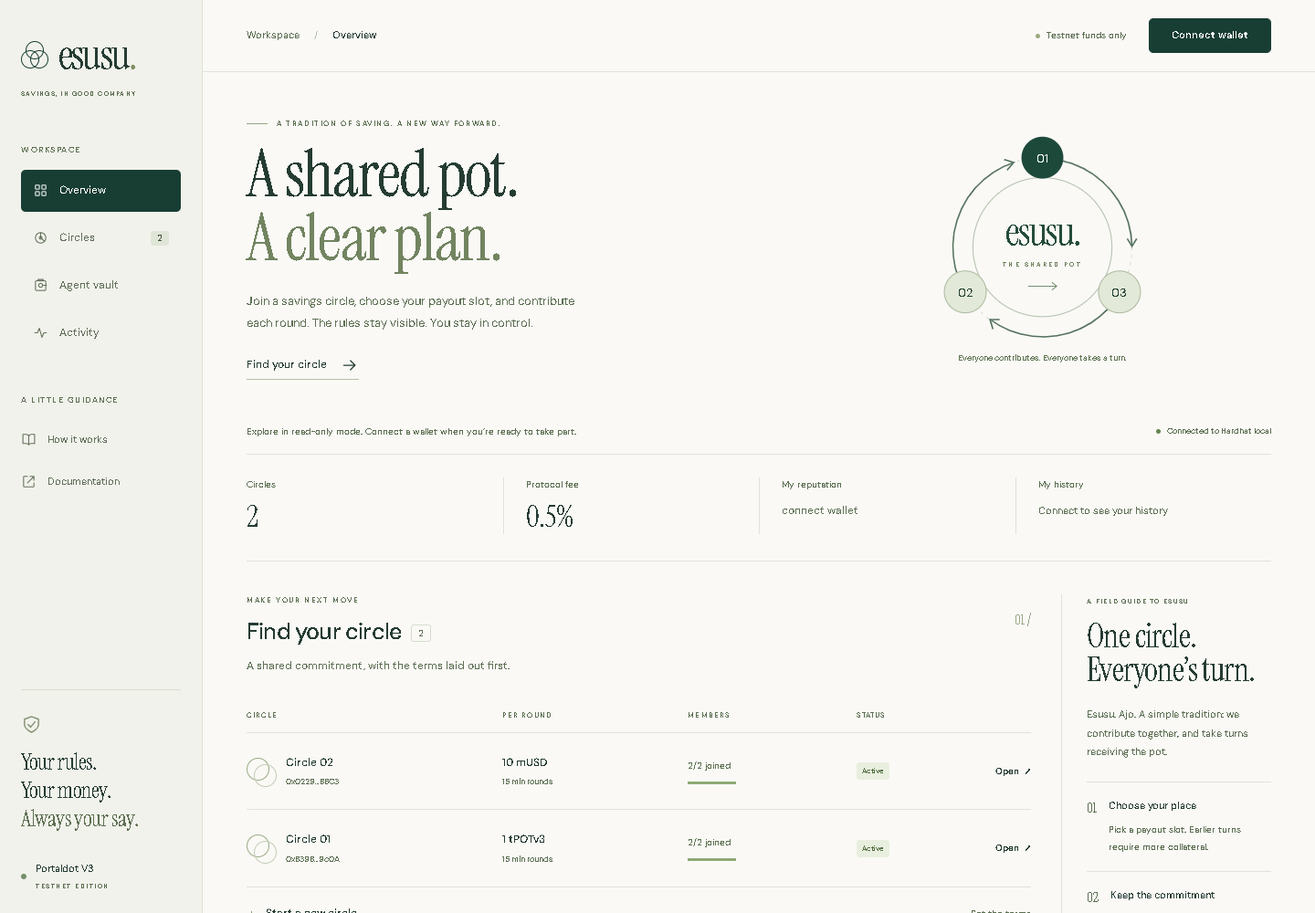
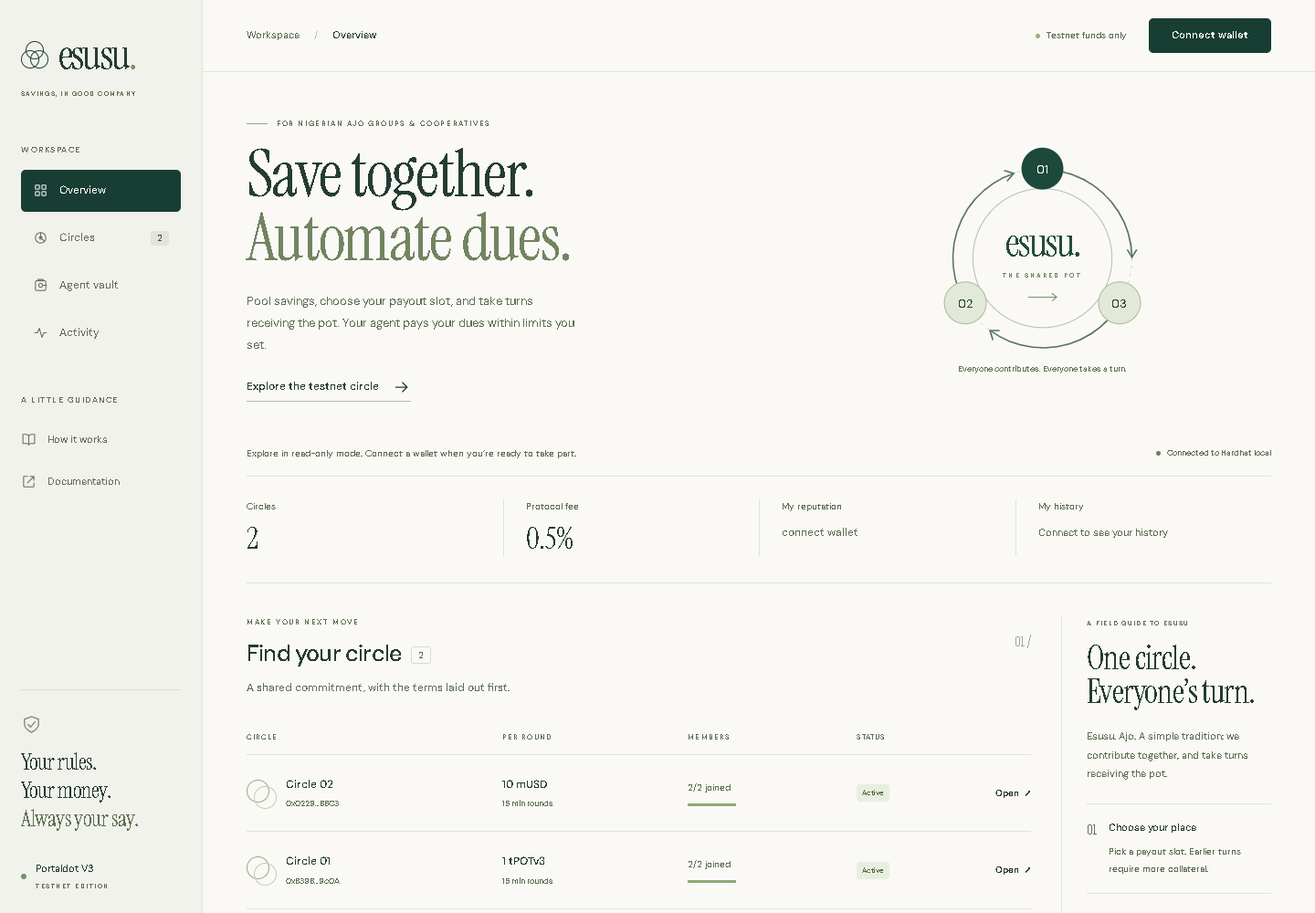
Clarify Esusu audience and renew judge policy for 30 days

diff --git a/web/index.html b/web/index.html
@@ -4,8 +4,8 @@
 <meta charset="utf-8">
 <meta name="viewport" content="width=device-width, initial-scale=1">
 <meta name="theme-color" content="#183e34">
-<meta name="description" content="Save together with Esusu. Explore rotating savings circles on Portaldot, choose your payout slot, and manage your agent's spending limits.">
-<title>Esusu — Savings, in good company</title>
+<meta name="description" content="For Nigerian ajo groups and cooperatives: save together, take turns receiving the pot, and let an agent pay your dues within limits you control.">
+<title>Esusu — Ajo savings with automated dues</title>
 <link rel="icon" href="favicon.svg" type="image/svg+xml">
 <link rel="preload" href="fonts/dm-sans-latin.woff2" as="font" type="font/woff2" crossorigin>
 <link rel="preload" href="fonts/instrument-serif-latin.woff2" as="font" type="font/woff2" crossorigin>
@@ -42,7 +42,7 @@
 <div class="workspace">
 <header class="topbar"><div class="breadcrumb"><span>Workspace</span><span class="breadcrumb-slash">/</span><strong>Overview</strong></div><div class="topbar-actions"><span class="testnet-label">Testnet funds only</span><button id="btnConnect" class="primary wallet-button">Connect wallet</button></div></header>
 <main id="main" class="content">
-<section class="hero" id="overview" aria-labelledby="heroTitle"><div class="hero-copy"><p class="eyebrow"><span class="tiny-line"></span>A TRADITION OF SAVING. A NEW WAY FORWARD.</p><h1 id="heroTitle">A shared pot.<br><span>A clear plan.</span></h1><p class="hero-lead">Join a savings circle, choose your payout slot, and contribute each round. The rules stay visible. You stay in control.</p><a class="text-link hero-link" href="#discover">Find your circle <svg><use href="#i-arrow"/></svg></a></div>
+<section class="hero" id="overview" aria-labelledby="heroTitle"><div class="hero-copy"><p class="eyebrow"><span class="tiny-line"></span>FOR NIGERIAN AJO GROUPS &amp; COOPERATIVES</p><h1 id="heroTitle">Save together.<br><span>Automate dues.</span></h1><p class="hero-lead">Pool savings, choose your payout slot, and take turns receiving the pot. Your agent pays your dues within limits you set.</p><a class="text-link hero-link" href="#discover">Explore the testnet circle <svg><use href="#i-arrow"/></svg></a></div>
 <div class="circle-story"><svg class="circle-drawing" viewBox="0 0 350 270" role="img" aria-labelledby="cycleTitle cycleDesc"><title id="cycleTitle">Everyone contributes. Everyone takes a turn.</title><desc id="cycleDesc">An illustration of three members contributing to a shared savings pot in turn.</desc>
 <circle cx="175" cy="133" r="94" fill="none" stroke="#d5dbd0" stroke-width="1" stroke-dasharray="3 5"/><circle cx="175" cy="133" r="73" fill="none" stroke="#b4c0ad" stroke-width="1"/>
 <path d="M194 42a94 94 0 0 1 75 90m-5-8 5 8 5-8M252 188a94 94 0 0 1-132 21m10 0-10 0 3 10M87 166a94 94 0 0 1 58-122m-7 8 7-8-10-3" fill="none" stroke="#54705c" stroke-width="1.5"/>
@@ -83,7 +83,7 @@
 <div id="vaultView" style="display:none"><div class="kv detail-stats" id="vaultKv"></div>
 <div class="funding-grid"><div class="row"><div class="grow"><label for="fundAmt">Add funds</label><input id="fundAmt" value="50" inputmode="decimal"></div><button id="btnFund">Fund</button></div><div class="row"><div class="grow"><label for="wdAmt">Withdraw to your wallet</label><input id="wdAmt" value="10" inputmode="decimal"></div><button id="btnVaultWd">Withdraw</button></div></div>
 <div class="subsection-heading"><h3>Spending policy</h3><span class="small">You set every limit.</span></div>
-<div class="grid"><div class="field-wide"><label for="pAgent">Agent wallet address</label><input id="pAgent" placeholder="0x…" spellcheck="false" autocomplete="off"></div><div><label for="pPerTx">Maximum per payment</label><input id="pPerTx" value="10" inputmode="decimal"></div><div><label for="pPeriodCap">Maximum per period</label><input id="pPeriodCap" value="30" inputmode="decimal"></div><div><label for="pHours">Period <span class="optional">hours</span></label><input id="pHours" value="24" inputmode="decimal"></div><div><label for="pDays">Expires in <span class="optional">days</span></label><input id="pDays" value="14" inputmode="decimal"></div></div>
+<div class="grid"><div class="field-wide"><label for="pAgent">Agent wallet address</label><input id="pAgent" placeholder="0x…" spellcheck="false" autocomplete="off"></div><div><label for="pPerTx">Maximum per payment</label><input id="pPerTx" value="10" inputmode="decimal"></div><div><label for="pPeriodCap">Maximum per period</label><input id="pPeriodCap" value="30" inputmode="decimal"></div><div><label for="pHours">Period <span class="optional">hours</span></label><input id="pHours" value="24" inputmode="decimal"></div><div><label for="pDays">Expires in <span class="optional">days</span></label><input id="pDays" value="30" inputmode="decimal"></div></div>
 <div class="row"><button id="btnPolicy" class="primary">Save policy</button><button id="btnAllow">Allow this circle</button><button id="btnDisallow">Remove this circle</button></div>
 <div class="pause-controls"><div><strong>You can always press pause.</strong><p>Stop agent payments without moving your funds.</p></div><div class="row"><button id="btnPause" class="danger">Pause agent</button><button id="btnUnpause">Resume agent</button></div></div>
 <div class="subsection-heading"><h3>Approved service providers</h3></div><p class="sub">Allow specific APIs or data services. Provider limits also count towards your agent’s total allowance.</p>

diff --git a/scripts/extend-policy.js b/scripts/extend-policy.js
@@ -20,7 +20,9 @@ const ABI = [
   const file = "deployments/portaldot.json";
   const dep = JSON.parse(fs.readFileSync(file, "utf8"));
   const days = Number(process.env.DAYS || 30);
+  if (!Number.isSafeInteger(days) || days <= 0) throw new Error("DAYS must be a positive whole number");
   const provider = new ethers.JsonRpcProvider(process.env.PORTALDOT_EVM_RPC || NETWORK.evmRpc, undefined, { staticNetwork: true });
+  if (Number((await provider.getNetwork()).chainId) !== dep.chainId) throw new Error("RPC chain does not match the deployment");
   const wallet = new ethers.Wallet(process.env.PRIVATE_KEY, provider);
   const vault = new ethers.Contract(dep.vault, ABI, wallet);
 
@@ -33,9 +35,18 @@ const ABI = [
   const tx = await vault.setPolicy(agent, perTx, period, len, expiry, process.env.GAS_LIMIT ? { gasLimit: BigInt(process.env.GAS_LIMIT) } : {});
   console.log("tx", tx.hash);
   const rc = await tx.wait();
+  if (rc.status !== 1) throw new Error(`Policy renewal failed: ${tx.hash}`);
   console.log("status", rc.status === 1 ? "OK" : "FAILED", "block", rc.blockNumber);
-  console.log("on-chain expiry now", new Date(Number(await vault.expiry()) * 1000).toISOString());
+  const actualExpiry = Number(await vault.expiry());
+  if (actualExpiry !== expiry) throw new Error(`On-chain expiry differs from the requested expiry; inspect ${tx.hash}`);
+  console.log("on-chain expiry now", new Date(actualExpiry * 1000).toISOString());
 
   dep.expiry = expiry; dep.tx = { ...dep.tx, extendPolicy: tx.hash };
+  dep.receipts = { ...dep.receipts, extendPolicy: {
+    blockNumber: rc.blockNumber, gasUsed: rc.gasUsed.toString(), gasPrice: rc.gasPrice.toString(),
+  } };
+  dep.policyRenewal = { verifiedAt: new Date().toISOString(), previousExpiry: Number(old), expiry,
+    days, agent, perTxCap: perTx.toString(), periodCap: period.toString(), periodLength: len.toString(),
+    transaction: tx.hash, blockNumber: rc.blockNumber };
   fs.writeFileSync(file, JSON.stringify(dep, null, 2) + "\n");
 })().catch((e) => { console.error(e.shortMessage || e.message); process.exit(1); });

diff --git a/scripts/demo.js b/scripts/demo.js
@@ -36,7 +36,7 @@ async function main() {
   h("Owner funds an agent vault (mUSD) and sets limits: 10/payment, 20/day, this circle only");
   const vault = await (await ethers.getContractFactory("AgentAllowance")).deploy(owner.address, await tok.getAddress());
   const vaddr = await vault.getAddress();
-  await vault.connect(owner).setPolicy(agent.address, dues, dues * 2n, 86400, (await time.latest()) + 14 * 86400);
+  await vault.connect(owner).setPolicy(agent.address, dues, dues * 2n, 86400, (await time.latest()) + 30 * 86400);
   await vault.connect(owner).setCircuit(addr, true);
   await tok.connect(owner).transfer(vaddr, dues * 5n);
 

diff --git a/scripts/deploy.js b/scripts/deploy.js
@@ -106,7 +106,7 @@ async function main() {
   }
   save();
   const vault = await deploy("AgentAllowance", "vault", "vaultDeploy", [owner.address, tokenAddr]);
-  if (!out.expiry) { out.expiry = (await ethers.provider.getBlock("latest")).timestamp + 14 * 86400; save(); }
+  if (!out.expiry) { out.expiry = (await ethers.provider.getBlock("latest")).timestamp + 30 * 86400; save(); }
   await send("setPolicy", () => vault.setPolicy(agentAddr, dues, dues * 3n, 86400, out.expiry));
   await send("allowCircle", () => vault.setCircuit(out.circle, true));
   await send("allowServicePayee", () => vault.setPayee(servicePayee, true, dues * 3n));

diff --git a/docs/JUDGES.md b/docs/JUDGES.md
@@ -1,11 +1,15 @@
 # Judge guide: verify everything in 5 minutes
 
 ## The 10-second version
-Esusu (ajo) circles run on trust and break when someone takes the pot and vanishes. This project puts the circle on-chain with **collateral priced by payout slot** (a paid-out member can never leave in debt), a **portable reputation score**, and an **AI agent that pays your dues from a vault you cap** and cannot withdraw, pay itself, or pay anyone you did not allowlist.
+**For Nigerian ajo groups and cooperatives: save together, take turns receiving the pot, and let an agent pay your dues within limits you control.**
 
-## Path A: 60 seconds, nothing to install but Node 22, no tokens, no wallet
+Members choose a payout slot and lock collateral; earlier payouts require more collateral to cover remaining dues. The agent automates contributions from a funded vault with owner-set limits. This addresses missed payments and members who stop contributing after their payout. It is a testnet prototype, with no recruited pilot users yet.
 
-The repository is currently private, so clone access requires permission. Public hosting is not yet configured. Once you have repository access:
+**Start here:** [open the live app](https://onchainesusuagent.vercel.app). No wallet is needed to inspect the circle, payout slots or risk grade. Use Path A below for a complete hands-on agent demo with local test accounts.
+
+## Path A: local hands-on demo (Node 22)
+
+The live app is hosted on Vercel. For the local demo, clone the repository (private repository access is required if you cannot open it):
 ```bash
 git clone https://github.com/Agozie180/On-chain-Esusu-agent && cd On-chain-Esusu-agent
 npm install
@@ -20,31 +24,33 @@ Open http://127.0.0.1:5173. You will see (without connecting any wallet):
 To act, the demo prints a public dev key and the MetaMask network values. Then:
 1. Use the complete agent command printed by the demo, with `CIRCUITS` set to the local `liveCircle` in `.local-demo.json` to override any testnet `.env` value: the agent **pays your dues from the vault**. On PowerShell, set the listed values with `$env:NAME='value'` before `npm run agent`. Stop the loop with Ctrl+C.
 2. `npm run demo:buy`: the agent **pays 1 mUSD from the vault to an API over HTTP 402** and gets a risk report.
-3. In the dapp press **Kill switch**, rerun step 1: the agent alerts instead of paying.
+3. In the dapp press **Pause agent**, rerun step 1: the agent alerts instead of paying.
 
 ## Path B: prove correctness
 ```bash
 npm test          # 110 tests: circles, vault, registry, agent on a local chain, 402 service, 40 random circles
-npm run e2e       # 45 headless browser checks (needs Chromium; CI installs it)
+npm run e2e       # 51 headless browser checks (needs Chromium; CI installs it)
 ```
 Try to break it: the self-audit lists what we found ([AUDIT](AUDIT.md)); the fuzz test asserts solvency and debtor-safety after every transaction and was mutation-checked (it fails when we sabotage the contract).
 
 ## Path C: Portaldot testnet
+**Agent policy renewed November 1:** valid until **December 1, 2026 at 15:37:18 UTC (16:37:18 Lagos)**, with 10 mUSD per-payment and 30 mUSD daily limits. The [deployment record](../deployments/portaldot.json) includes the renewal receipt at block **279265**. To inspect it in the app, open the demo circle, paste vault `0x98017f2275B6758791687e0916cFc4933351482E` into **Vault address**, and press **Load vault**. You do not need a wallet to read its policy. Only its owner can change it; use your own vault or the local demo accounts for hands-on policy tests. Renewal authorizes the agent but does not start its process.
+
[1 lines of base64/hex data omitted]
 
 All 12 deployment/setup transactions are finalized. The [README proof table](../README.md#testnet-deployment-proof) lists all four addresses; [deployments/portaldot.json](../deployments/portaldot.json) contains receipts, code hashes and the recorded state. The explorer entry point is https://node-console.portaldot.dev/.
 
-Run `npm run web` and open http://localhost:5173 to inspect the testnet registry without a wallet. The committed app configuration already selects it. At verification, the circle was Open with **1/3 members**, 10 mUSD dues, 15-minute rounds and **50 test mUSD** in the agent vault. A full cycle and paid API interaction on testnet remain to be demonstrated; use Path A for the complete local rehearsal. Deployment and funding details are in [DEPLOY.md](DEPLOY.md).
+Open [the live app](https://onchainesusuagent.vercel.app), or run `npm run web` and open http://localhost:5173 to inspect the testnet registry without a wallet. The committed app configuration already selects it. At verification, the circle was Open with **1/3 members**, 10 mUSD dues, 15-minute rounds and **50 test mUSD** in the agent vault. A full cycle and paid API interaction on testnet remain to be demonstrated; use Path A for the complete local rehearsal. Deployment and funding details are in [DEPLOY.md](DEPLOY.md).
 
 ## Mapping to the judging criteria
 
 | Criterion | Evidence | How to verify |
 |---|---|---|
-| **Technical feasibility (30%)** | 3 protocol contracts, agent, dapp, paid API; 110 contract/agent/service tests + 45 browser checks; randomized solvency/debtor-safety invariants; 12 finalized testnet deployment/setup transactions | Paths A, B and C; `git log` |
+| **Technical feasibility (30%)** | 3 protocol contracts, agent, dapp, paid API; 110 contract/agent/service tests + 51 browser checks; randomized solvency/debtor-safety invariants; 12 finalized testnet deployment/setup transactions | Paths A, B and C; `git log` |
 | **Innovation (30%)** | Slot-priced collateral that makes early payout safe; portable on-chain reputation with a Sybil guard; an AI agent bounded by owner-set on-chain limits that also **pays for APIs over HTTP 402** | `AgentAllowance.sol`, `agent/service.js`, `npm run demo:buy` |
 | **Ecosystem contribution (20%)** | Verified `0x` → `5…` address helper; tested deployment guide including storage costs; reusable reputation registry; MIT-licensed source (repository currently private) | [`lib/portaldot.js`](../lib/portaldot.js), [DEPLOY.md](DEPLOY.md) |
 | **Business potential (20%)** | Clear user (Nigerian savings circles), 0.5% fee capped at 2%, paid risk API, B2B for cooperatives; costed roadmap; sourced market facts | [BUSINESS.md](BUSINESS.md), [GRANTS.md](GRANTS.md), [ROADMAP.md](../ROADMAP.md) |
 
 ## Where we are honest about gaps
-- The stack is deployed, but the full multi-member testnet cycle, live paid API and Pages hosting are not complete. WASM/ink! is not used; there is no external audit or recruited pilot-user evidence. See the README status table.
+- The app is hosted on Vercel and the contracts are deployed. The full multi-member testnet cycle and live paid API remain unverified. WASM/ink! is not used; there is no external audit or recruited pilot-user evidence. See the README status table.
 - Collateral is a deterrent for **late** slots: an early miss by a late-slot member can shorten later pots (explicit, never insolvent). Reputation gating is the mitigation. Details: [AUDIT.md](AUDIT.md).

diff --git a/README.md b/README.md
@@ -1,6 +1,6 @@
 # On-chain Esusu-agent
 
-**Ajo, but nobody can run away with the pot. And an AI agent pays your dues without ever being able to steal.**
+**For Nigerian ajo groups and cooperatives: save together, take turns receiving the pot, and let an agent pay your dues within limits you control.**
 
 [![CI](https://github.com/Agozie180/On-chain-esusu-agent/actions/workflows/ci.yml/badge.svg)](https://github.com/Agozie180/On-chain-esusu-agent/actions/workflows/ci.yml) ![License](https://img.shields.io/badge/license-MIT-green) ![Network](https://img.shields.io/badge/Portaldot%20V3-EVM-1f6b4a) ![Tests](https://img.shields.io/badge/tests-110%20contract%20%2B%2051%20browser-1f6b4a)
 
@@ -18,10 +18,11 @@ Built for the **Portaldot Hacker House 2026** (Ecosystem DApps). **Status: deplo
 
 ## Understand it in 10 seconds
 
-- **The problem.** Esusu / ajo circles (everyone pays in, one member takes the pot each round) are how many Nigerians save. They run on trust and a WhatsApp group, and they break when someone takes the pot and disappears. Digital versions can't rely on community shame once members are strangers ([e-MFP](https://www.e-mfp.eu/blog/when-fintech-meets-traditional-informal-financial-schemes-recent-trends-innovations-digitising)).
-- **The fix.** The circle's rules live on-chain. Whoever is paid early locks more collateral, so **a paid-out member can never leave the circle in debt**. A missed payment is covered by collateral, the member takes a strike, and a **portable reputation score** (usable by any app) updates.
-- **The twist.** Your **AI agent pays your dues on time** from a vault you fund. It can only pay circles and service providers **you** allowlisted, inside limits **you** set, and it can **never withdraw or pay itself**. You can kill it in one transaction.
-- **Why Portaldot.** Solidity contracts on Portaldot V3's EVM, with a native `5…` / `0x…` address toolkit and a Remix + Hardhat deploy path we built and documented for other teams.
+- **Who:** Nigerian friend-and-family ajo/esusu groups, and cooperatives that organize them.
+- **Problem:** missed contributions and members who stop paying after receiving the pot.
+- **Product:** a shared savings circle on Portaldot with a fixed payout order, collateral for missed dues, and an agent that automates contributions within owner-set limits.
+
+Earlier payout slots require more collateral to cover the member's remaining dues. The agent can only pay approved circles and providers; it cannot withdraw from the vault. Late-slot defaults can still reduce later pots, so this is not a guarantee against every loss. [How the safeguards work](docs/AUDIT.md).
 
 ## Status (read this first)
 
@@ -49,7 +50,9 @@ Network: **Portaldot V3 Testnet**, chain ID **420420777**. Explorer: https://nod
 
[1 lines of base64/hex data omitted]
 
-At the **October 24, 2026, 21:33:46 UTC** verification snapshot (finalized block **180016**), the demo circle was Open with **1 of 3 members** joined, 10 mUSD dues and 15-minute rounds. The vault held **50 test mUSD**, its separate agent was configured, and the circle and service payee were allowlisted. The policy expires **November 7, 2026 at 21:30:06 UTC**. A complete multi-member cycle has been tested locally; the testnet circle starts once the other two slots are filled.
+At the **October 24, 2026, 21:33:46 UTC** verification snapshot (finalized block **180016**), the demo circle was Open with **1 of 3 members** joined, 10 mUSD dues and 15-minute rounds. The vault held **50 test mUSD**, its separate agent was configured, and the circle and service payee were allowlisted. A complete multi-member cycle has been tested locally; the testnet circle starts once the other two slots are filled.
+
[1 lines of base64/hex data omitted]
 
 The 12 receipts account for **2438.7171 tPOTv3** in fees including storage deposits, plus **0.1 tPOTv3** transferred to the agent. The recorded owner balance after setup was **61.0829 tPOTv3**. The earlier funding blocker is resolved; see the [deployment guide](docs/DEPLOY.md) for the measurements and current usage instructions. Mock mUSD has unrestricted minting and no monetary backing.
 

diff --git a/docs/DEPLOY.md b/docs/DEPLOY.md
@@ -6,7 +6,9 @@ Do these on **your own computer**. Everything here is testnet only. Never put a 
 
 The stack is already deployed on chain **420420777**. Start with `npm install` and `npm run web`, then open http://localhost:5173. No wallet or redeployment is required for read-only inspection. The [README proof table](../README.md#testnet-deployment-proof) lists all four contract addresses; [deployments/portaldot.json](../deployments/portaldot.json) contains the 12 finalized receipts, code hashes and setup snapshot.
 
-At the October 24 verification snapshot, the circle was Open with one of three members, dues of 10 mUSD and 15-minute rounds. The owner occupies UI slot 1 (contract slot 0), and the vault holds 50 test mUSD. The remaining two slots need separate members, mock-token collateral/dues and enough native gas. The vault policy expires November 7, 2026 at 21:30:06 UTC. Its agent has a recorded 0.1 tPOTv3; estimate the intended actions before assuming that is sufficient.
+At the October 24 verification snapshot, the circle was Open with one of three members, dues of 10 mUSD and 15-minute rounds. The owner occupies UI slot 1 (contract slot 0), and the vault holds 50 test mUSD. The remaining two slots need separate members, mock-token collateral/dues and enough native gas. The owner renewed the vault policy on November 1 for 30 days, until December 1, 2026 at 15:37:18 UTC, with the same spending limits. Its agent has a recorded 0.1 tPOTv3; estimate the intended actions before assuming that is sufficient.
+
+To renew again, run `npm run policy:extend` from the owner checkout with `PRIVATE_KEY` configured locally. It sets expiry to 30 days from the latest chain timestamp, retains the agent and caps, and records the receipt in `deployments/portaldot.json`. `setPolicy` also resets the spending period and its spent counter. This command submits a testnet transaction and does not start the agent process.
 
 The wallet/deployment steps below are for operators. The committed checkpoint belongs to this deployment and its owner: rerunning the script with the same keys/configuration reuses its transactions. For a separate stack, use a separately named Hardhat network and deployment record, preserving this evidence; do not overwrite the checkpoint with an unrelated wallet or local deployment.
 

diff --git a/docs/DEMO_SCRIPT.md b/docs/DEMO_SCRIPT.md
@@ -5,7 +5,7 @@ Record at 1080p and keep under 3:00. The stack is deployed on Portaldot V3 testn
 ## Rehearsal setup
 
 - **Complete local flow:** run `npm run demo:local`, then open http://127.0.0.1:5173. Use the full local agent configuration printed by the demo, and set `CIRCUITS` to its `liveCircle` from `.local-demo.json`; this overrides any existing testnet value in `.env`. `npm run demo:buy` uses the local paid API. The agent loops until stopped with Ctrl+C.
-- **Testnet capture:** stop the local web server, run `npm run web`, and use the committed Portaldot configuration. Fill the remaining two slots with separate wallets, supply their mock-token collateral/dues and estimate gas for every participant and the agent. The agent's recorded 0.1 tPOTv3 is not proof that an action is affordable. Check the policy expiry (November 7, 2026 at 21:30:06 UTC). Setup and 12 finalized transactions are verified; a full live cycle/API demonstration still requires rehearsal. See [DEPLOY.md](DEPLOY.md).
+- **Testnet capture:** stop the local web server, run `npm run web`, and use the committed Portaldot configuration. Fill the remaining two slots with separate wallets, supply their mock-token collateral/dues and estimate gas for every participant and the agent. The agent's recorded 0.1 tPOTv3 is not proof that an action is affordable. The policy was renewed November 1 and expires December 1, 2026 at 15:37:18 UTC. Setup and 12 finalized transactions are verified, plus the policy renewal receipt; a full live cycle/API demonstration still requires rehearsal. See [DEPLOY.md](DEPLOY.md).
 
 If combining testnet deployment proof with the local end-to-end rehearsal, announce the switch clearly. The 15-minute testnet round duration also requires advance preparation or edited footage for a three-minute video.
 

diff --git a/ARCHITECTURE.md b/ARCHITECTURE.md
@@ -39,7 +39,7 @@ The registry, circle, test mUSD and agent vault were deployed on Portaldot V3 te
 - `agent/risk.js`: CLI risk grade for a circle and slot.
 - `agent/pay-client.js` and `agent/service.js`: HTTP 402 quotes bind the asset and chain; the service checks the token transfer and receipt reference and prevents concurrent double redemption.
 
-The deployed demo circle was Open with one of three members at the recorded snapshot. The vault held 50 test mUSD with a 10 mUSD per-payment cap, 30 mUSD per-day shared cap and policy expiry November 7, 2026 at 21:30:06 UTC. The full multi-member cycle and paid API flow are proven locally; they have not yet been exercised end to end on testnet.
+The deployed demo circle was Open with one of three members at the recorded snapshot. The vault held 50 test mUSD with a 10 mUSD per-payment cap and 30 mUSD per-day shared cap. The owner renewed the policy on November 1 for 30 days, until December 1, 2026 at 15:37:18 UTC, keeping those limits unchanged; see `policyRenewal` in the [deployment record](deployments/portaldot.json). The full multi-member cycle and paid API flow are proven locally; they have not yet been exercised end to end on testnet.
 
 ## Priorities (cut from the bottom)
 - **P0 done (local):** contracts, tests, fuzz, agent, dapp, browser e2e.

diff --git a/SECURITY.md b/SECURITY.md
@@ -23,4 +23,4 @@ In scope: `contracts/` (`EsusuCircle`, `EsusuRegistry`, `AgentAllowance`), `agen
 - Paid-API clients reject asset/chain mismatches before spending; concurrent requests cannot redeem one receipt twice within a running service instance.
 - The browser blocks writes on an unexpected network and renders external token metadata as text. Local validation covers 110 contract/agent/service tests and 45 browser checks.
 
-The testnet snapshot records 0.1 tPOTv3 on the agent and a policy expiry of November 7, 2026 at 21:30:06 UTC. A nonzero gas balance does not prove the next transaction is affordable: Portaldot fees include storage deposits. Estimate each intended action before funding or running the agent.
+The testnet snapshot records 0.1 tPOTv3 on the agent. Its policy was renewed November 1 for 30 days and now expires December 1, 2026 at 15:37:18 UTC, with the same 10 mUSD per-payment and 30 mUSD daily limits. As with every `setPolicy` call, renewal restarts the spending period and resets its spent counter. A nonzero gas balance does not prove the next transaction is affordable: Portaldot fees include storage deposits. Estimate each intended action before funding or running the agent.
